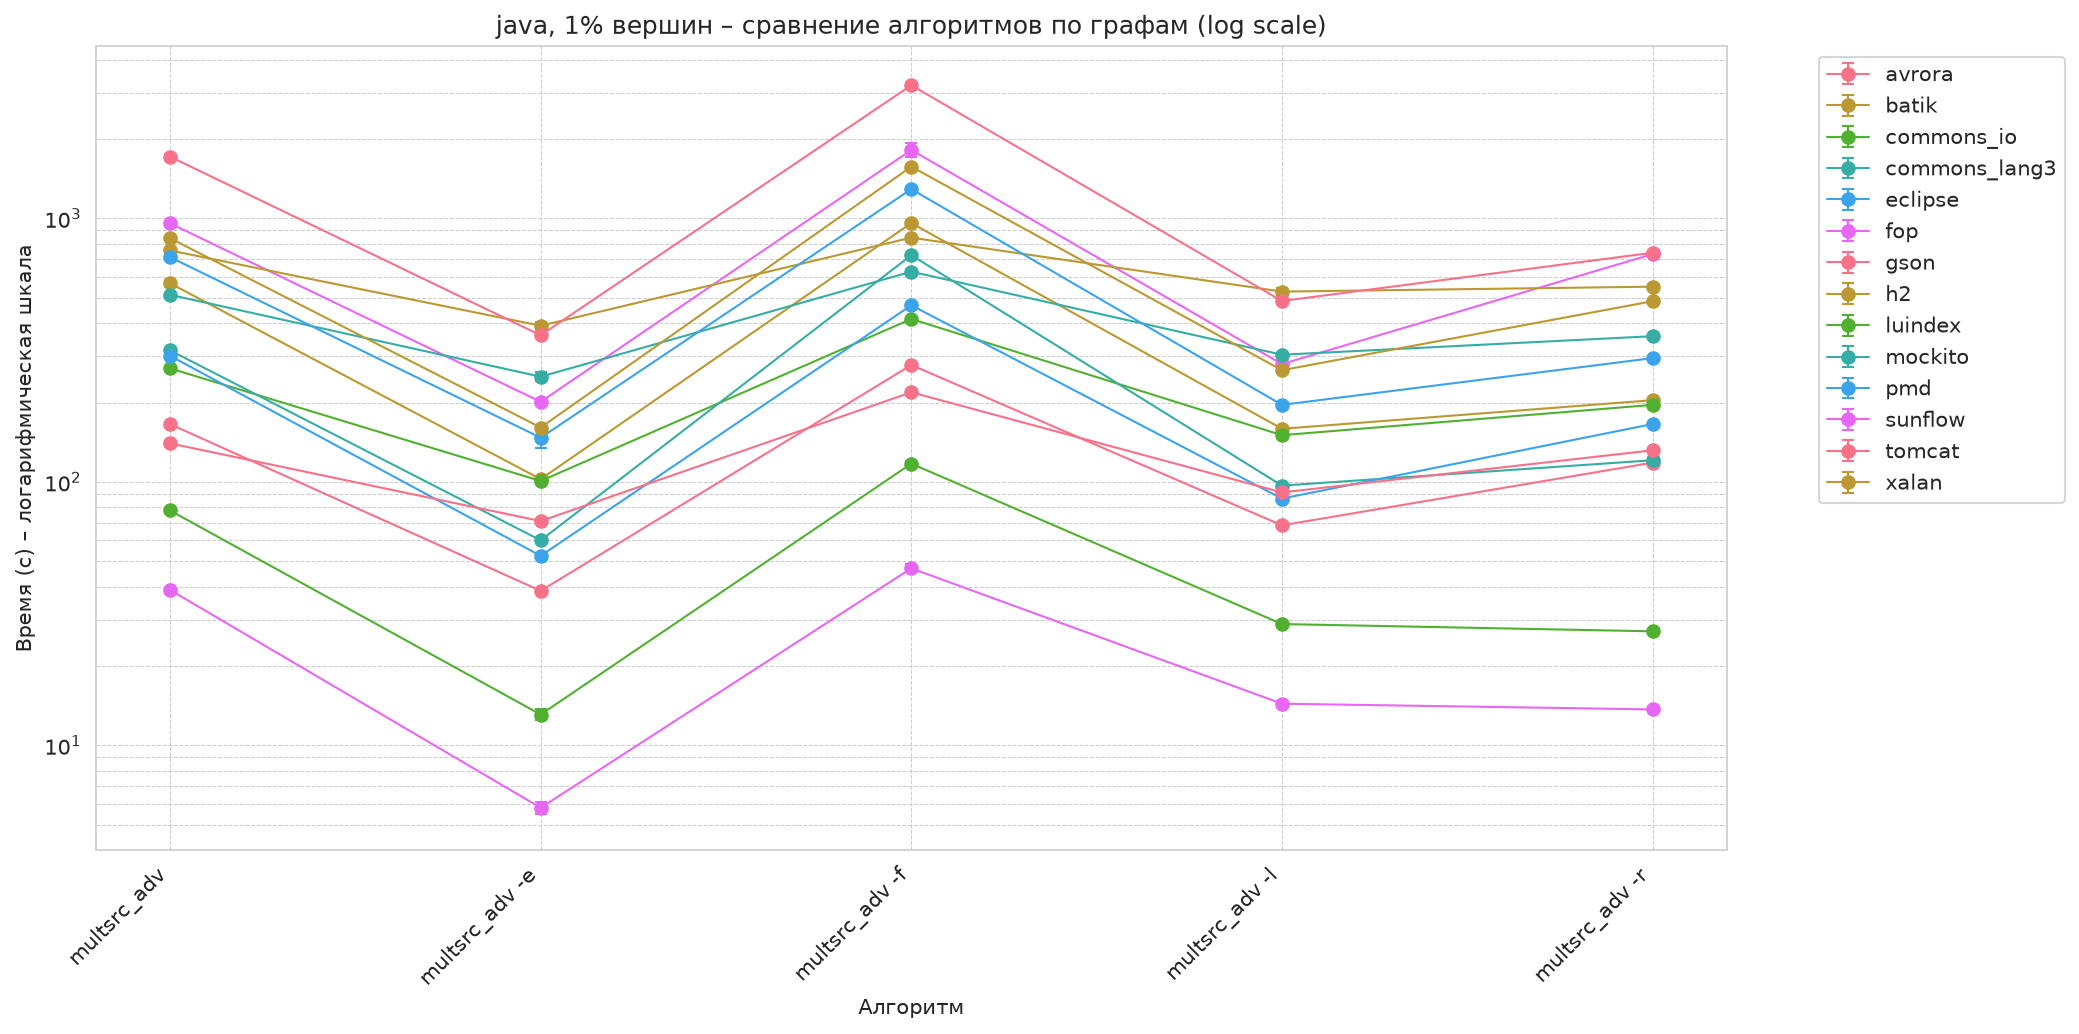
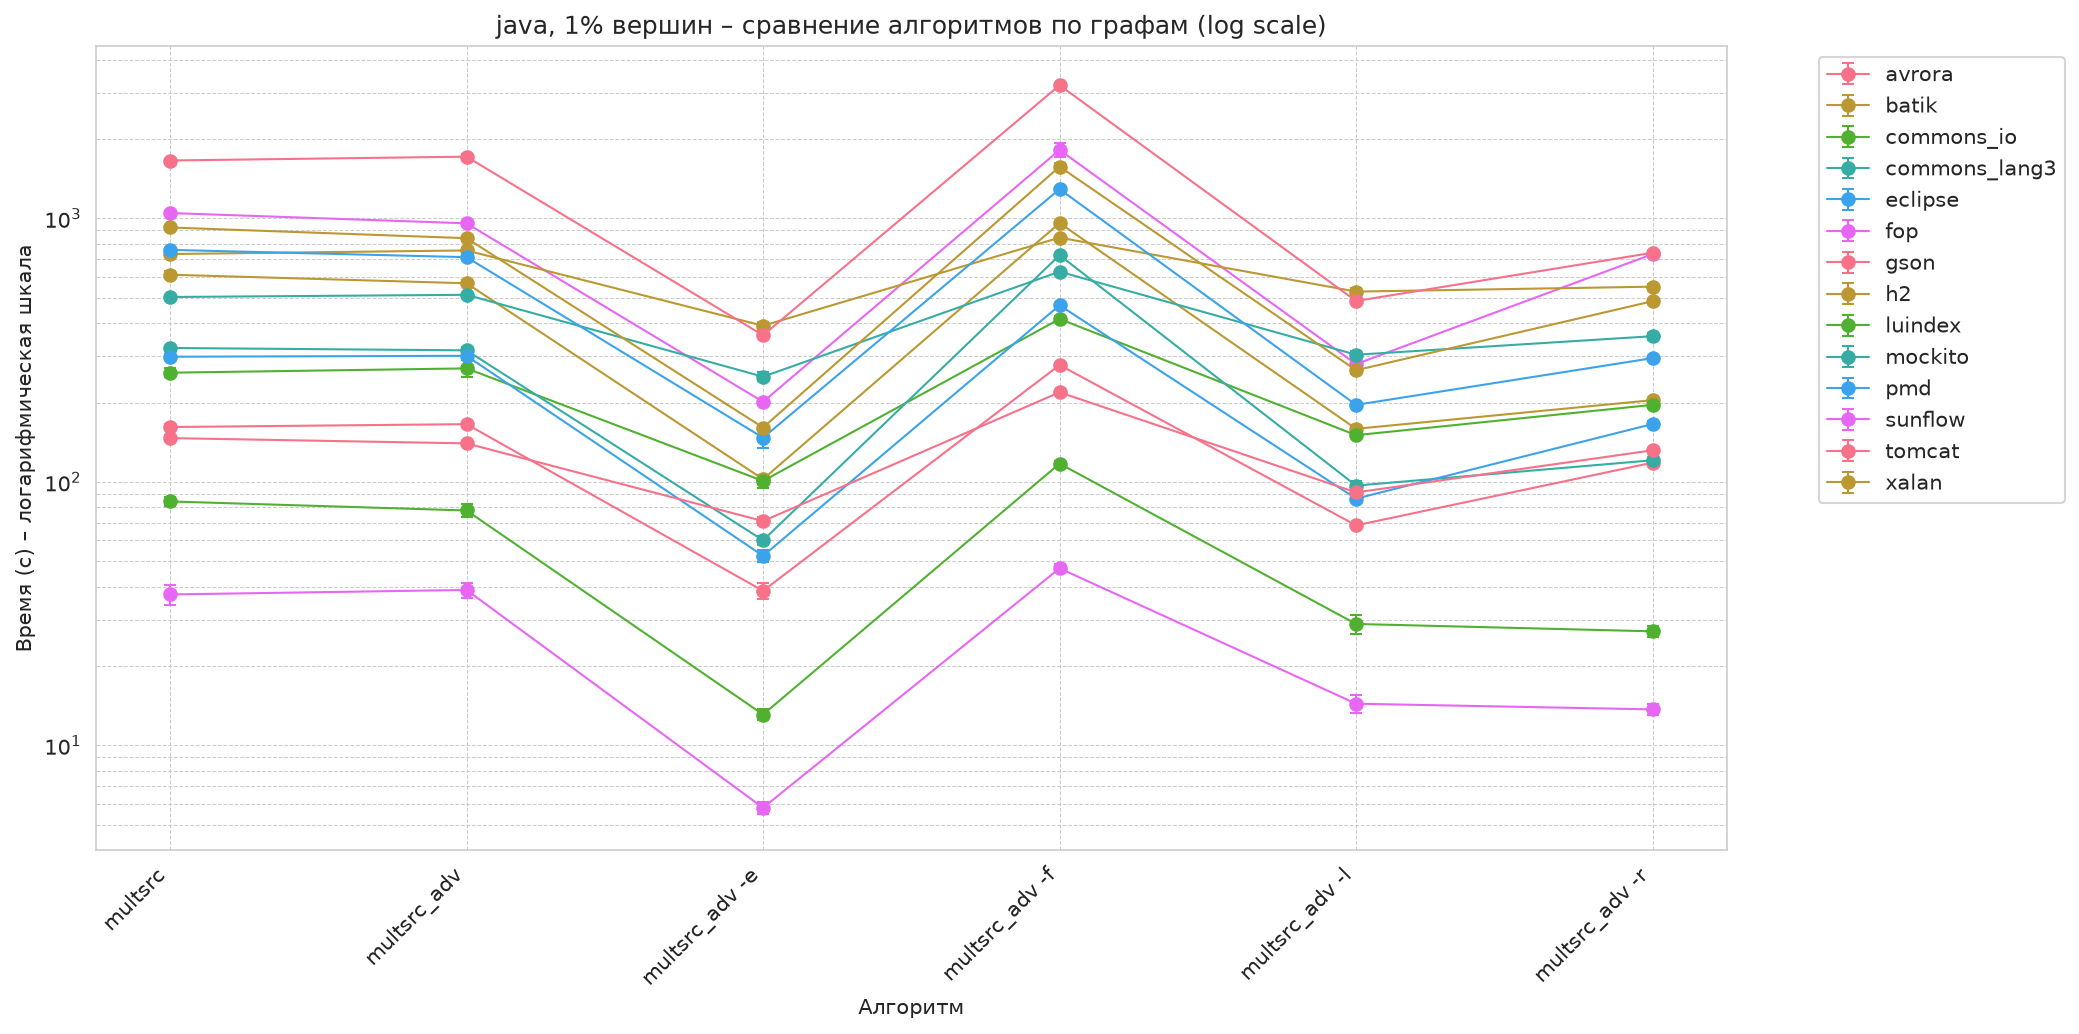
feat: update experiments

diff --git a/draw_graphs.py b/draw_graphs.py
@@ -6,6 +6,7 @@ from pathlib import Path
 
 # Алгоритмы, которые есть в новой таблице
 algo_columns = [
+    'multsrc',
     'multsrc_adv',
     'multsrc_adv -e',
     'multsrc_adv -f',
@@ -115,7 +116,7 @@ def parse_csv(file_path):
     return df
 
 
-file_path = '05.10.26 results - Лист1.csv'
+file_path = '13.10.26 results - Лист1.csv'
 df = parse_csv(file_path)
 
 print("Размер DataFrame:", df.shape)

diff --git a/README.md b/README.md
@@ -13,18 +13,19 @@
 
 ## Тестовые данные
 
-Тестовых графы и грамматики были взяты из набора данных CFPQ_Data: https://github.com/FormalLanguageConstrainedPathQuerying/CFPQ_Data (дата доступа: 06.10.26).
+Тестовых графы и грамматики были взяты из набора данных CFPQ_Data: https://github.com/FormalLanguageConstrainedPathQuerying/CFPQ_Data (дата доступа: 14.10.26).
 
 В качестве начальных вершин были взяты случайные вершины из множества всех вершин графа (см. раздел [Методология](#методология)).
 
-Ссылка на архив с использованными графами, грамматиками и начальными вершинами: https://drive.google.com/file/d/1097c0lNpBJXD7i_uBhlcOlLEKzZaRdGm/view?usp=sharing (дата доступа: 06.10.26).
+Ссылка на архив с использованными графами, грамматиками и начальными вершинами: https://drive.google.com/file/d/1097c0lNpBJXD7i_uBhlcOlLEKzZaRdGm/view?usp=sharing (дата доступа: 14.10.26).
 
 
 ## Методология
 
 Эксперименты сравнивали время работы следующих алгоритмов:
 
-- multsrc_adv — разработанный алгоритм без оптимизаций;
+- multsrc — алгоритм без оптимизаций;
+- multsrc_adv — разработанный алгоритм с пустой маской оптимизаций;
 - multsrc_adv -e — с оптимизацией тривиальных операций (empty);
 - multsrc_adv -f — с оптимизацией благодаря хранению 2 форматов матриц (format);
 - multsrc_adv -l — с оптимизацией благодаря ленивому сложению (lazy);
@@ -37,11 +38,11 @@
 Количество повторений было равно 15.
 4. Для каждого набора (граф, выборка начальных вершин, процент) были получены выборки из времени работы каждого алгорима.
 5. Для каждой такой выборки было взято среднее. Затем, для каждого графа и доли вершин было взято среднее от средних значений 2 сгенерированных выборок.
-6. После получения результатов, их корректность была сравнена с результатами https://github.com/FormalLanguageConstrainedPathQuerying/CFPQ_PyAlgo (дата доступа: 06.10.26) по принципу пересечения множества ответов алгоритма для всех вершин с множеством начальных вершин из каждой выборки.
+6. После получения результатов, их корректность была сравнена с результатами https://github.com/FormalLanguageConstrainedPathQuerying/CFPQ_PyAlgo (дата доступа: 14.10.26) по принципу пересечения множества ответов алгоритма для всех вершин с множеством начальных вершин из каждой выборки.
 
 ## Результаты
 
-Ссылка с таблицей с результатами: https://docs.google.com/spreadsheets/d/1U5EFtT-sknDls4jNj1isX_FAb7Q8WS634dj1UQEmzjo/edit?gid=0#gid=0 (дата доступа: 06.10.26). Таблица также есть в репозитории в формате csv.
+Ссылка на таблицу с результатами: https://docs.google.com/spreadsheets/d/1U5EFtT-sknDls4jNj1isX_FAb7Q8WS634dj1UQEmzjo/edit?gid=0#gid=0 (дата доступа: 14.10.26). Таблица также есть в репозитории в формате csv.
 
 Ниже представлены графики для 5% начальных вершин. Графики для 1% вершин можно найти [здесь](visuals/1%).
 
